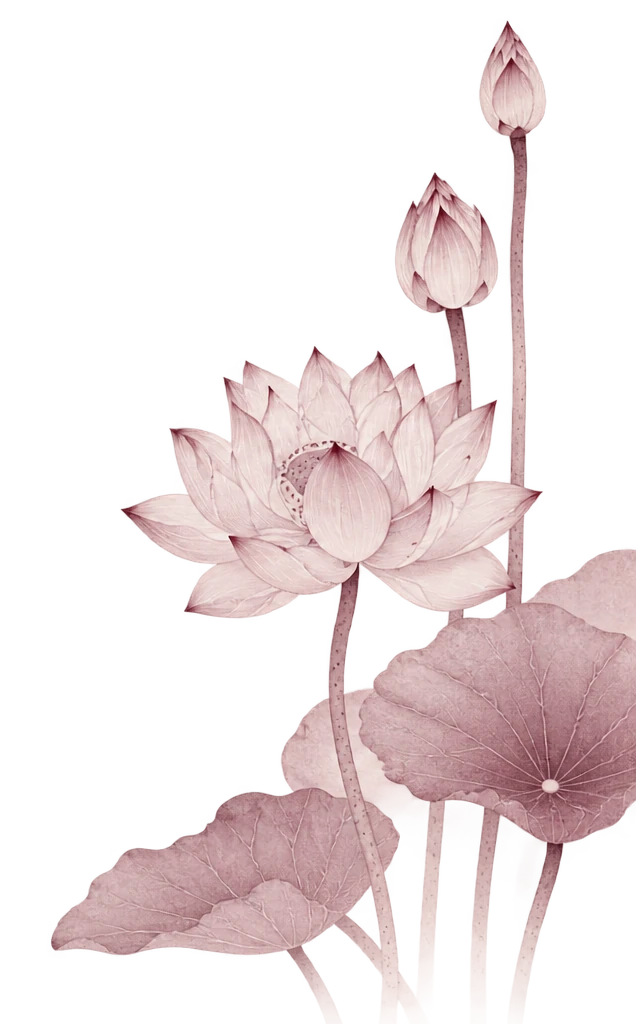
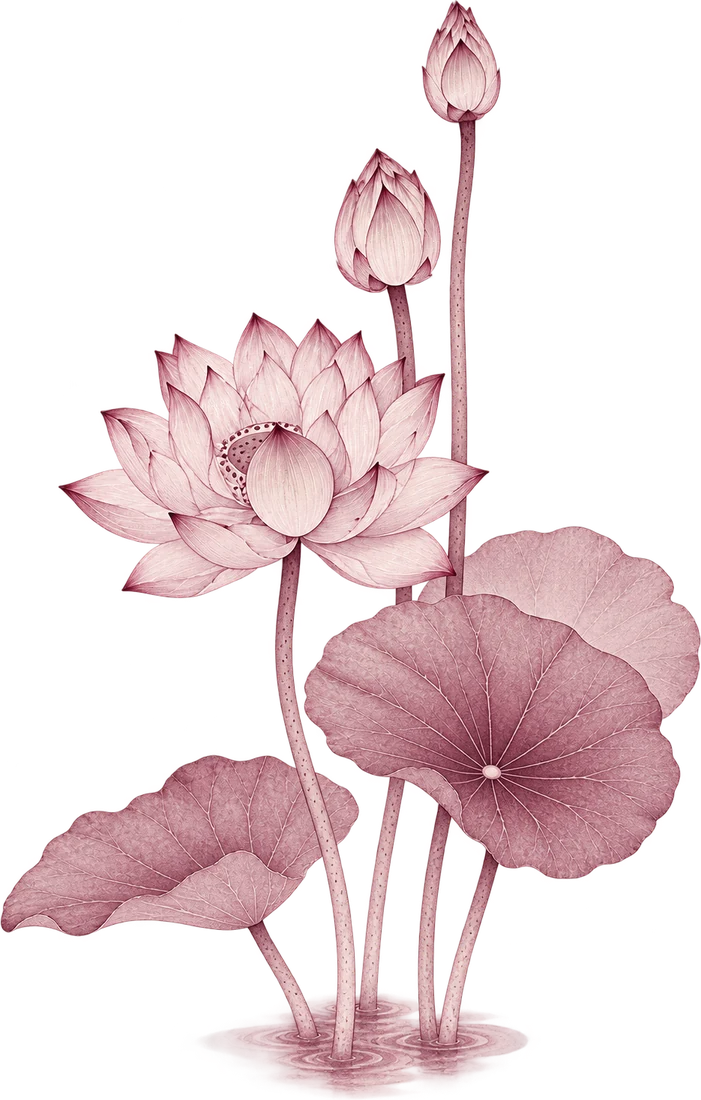
Bring in the client's shortlisted photography and the new brand assets
- Gallery: Weddings, Receptions, Haldi, Mehendi and Brunches rebuilt from
  the client's shortlist (assets/gallery), near-duplicate brunch frames
  dropped, earlier haldi frames kept after the two new ones
- Hero: new uncropped lotus, flush right, bottom fade, sits lower;
  powder-blue wash from the logo in the bottom-right corner
- Nav: new logo mark, text cropped off, set slightly larger
- About: new copy and a mandap photograph
- Process: updated ballroom floor plan in colour, shown whole in a
  two-row cell; the final stage closes the ledger full width

diff --git a/index.html b/index.html
@@ -26,7 +26,7 @@
 <link rel="preconnect" href="https://fonts.googleapis.com">
 <link rel="preconnect" href="https://fonts.gstatic.com" crossorigin>
 <link href="https://fonts.googleapis.com/css2?family=Playfair+Display:wght@500;600;700&amp;family=Instrument+Serif:ital@1&amp;family=Marcellus&amp;family=Space+Grotesk:wght@300;400;500;600&amp;family=Space+Mono:ital,wght@0,400;0,700;1,400&amp;display=swap" rel="stylesheet">
-<link rel="icon" href="assets/brand/soul-mark.png">
+<link rel="icon" href="assets/brand/soul-mark.png?v=2">
 
 <style>
 /* ============================================================
@@ -74,7 +74,7 @@
   --wordmark:"Playfair Display", "Bodoni 72", Didot, Georgia, serif;   /* the logo lockup only */
 
   --gutter:clamp(20px, 5.4vw, 92px);
-  --lotus-lift:clamp(74px, 11vh, 116px);   /* clears the hero's scroll cue */
+  --lotus-lift:clamp(20px, 4vh, 48px);    /* sits low; the faded foot runs behind the scroll cue */
   --gap:clamp(14px, 2.1vw, 30px);
   --sect:clamp(52px, 7.4vw, 100px);
   --measure:60ch;          /* one reading measure for every body paragraph */
@@ -270,7 +270,7 @@ p,li,q,blockquote,figcaption,address{text-wrap:pretty}
   border-bottom-color:var(--hair);
 }
 .brand{display:flex; align-items:center; gap:11px; text-decoration:none; line-height:1; min-height:44px}
-.brand .mark-brand{font-size:34px}
+.brand .mark-brand{font-size:40px}
 .brand-word{display:flex; align-items:baseline; gap:8px}
 .brand-word b{padding-right:.02em}
 /* the wordmark is set to match the logo's own Didone, and nowhere else */
@@ -399,6 +399,7 @@ p,li,q,blockquote,figcaption,address{text-wrap:pretty}
   background:
     radial-gradient(66% 52% at 16% 12%, rgba(var(--blush),.86) 0%, rgba(var(--blush),0) 64%),
     radial-gradient(58% 46% at 78% 20%, rgba(123,59,84,.13) 0%, transparent 64%),
+    radial-gradient(60% 52% at 100% 100%, rgba(197,214,233,.85) 0%, rgba(197,214,233,0) 72%),
     radial-gradient(56% 46% at 94% 74%, rgba(var(--rose),.70) 0%, rgba(var(--rose),0) 66%),
     radial-gradient(64% 44% at 44% 100%, rgba(var(--lilac),.56) 0%, rgba(var(--lilac),0) 66%),
     radial-gradient(70% 50% at 46% 96%, rgba(105,189,69,.06) 0%, transparent 62%);
@@ -411,13 +412,14 @@ p,li,q,blockquote,figcaption,address{text-wrap:pretty}
 .hero-lotus{
   position:absolute; right:0;
   /* it rests on the scroll cue rather than the hero's bottom edge */
-  bottom:var(--lotus-lift); height:clamp(360px,70vh,672px);
+  bottom:var(--lotus-lift); height:clamp(400px,78vh,760px);
   width:auto; max-width:none;
   z-index:2; pointer-events:none; user-select:none; will-change:transform;
   object-fit:contain; object-position:right bottom;
   opacity:.5; filter:saturate(.85);
-  -webkit-mask-image:linear-gradient(transparent 0%, #000 26%);
-  mask-image:linear-gradient(transparent 0%, #000 26%);
+  /* the stems dissolve into the page instead of stopping on a line */
+  -webkit-mask-image:linear-gradient(#000 68%, transparent 100%);
+  mask-image:linear-gradient(#000 68%, transparent 100%);
 }
 .hero-wash::after{
   content:""; position:absolute; inset:0;
@@ -668,9 +670,13 @@ p,li,q,blockquote,figcaption,address{text-wrap:pretty}
 .p-cell--shot{padding:0; overflow:hidden; min-height:210px}
 .p-cell--shot:hover{background:var(--ground)}
 .p-cell--shot .plate{position:absolute; inset:0; border:0}
-/* the floor plan is a drawing, not a photograph: shown whole on white, no grain */
+/* the floor plan is near-square, so its cell runs two rows tall and the
+   last stage closes the ledger as a full-width band */
+.p-cell--shot{grid-row:span 2}
+.p-ledger > .p-cell:last-child{grid-column:1 / -1}
 .plate--plan{background:#fff}
-.plate--plan .shot{object-fit:contain; padding:clamp(6px,.8vw,12px); filter:grayscale(1) contrast(1.05)}
+.plate--plan a{position:absolute; inset:0; display:block}
+.plate--plan .shot{object-fit:contain; object-position:center}
 
 /* ============================================================
    SERVICES (05)
@@ -1204,7 +1210,7 @@ p,li,q,blockquote,figcaption,address{text-wrap:pretty}
      between the headline and the CTAs. */
   .hero{min-height:100svh; padding-top:clamp(92px,15vh,140px); padding-bottom:clamp(26px,4vh,40px)}
   .hero-inner{flex:1; justify-content:center}
-  .hero-lotus{opacity:.34; height:clamp(252px,41vh,384px)}
+  .hero-lotus{opacity:.34; height:clamp(280px,46vh,430px)}
   .hero h1{margin-top:0; margin-bottom:clamp(26px,5vh,44px)}
   .hero-foot{margin-top:clamp(26px,5vh,44px)}
   .nav-links,.nav > .nav-cta{display:none}
@@ -1228,7 +1234,7 @@ p,li,q,blockquote,figcaption,address{text-wrap:pretty}
   /* the ledger stacks into a single ruled column; the photograph keeps
      its own ratio instead of borrowing a row's height */
   .p-ledger{grid-template-columns:minmax(0,1fr)}
-  .p-cell--shot{aspect-ratio:16 / 10; min-height:0}
+  .p-cell--shot{aspect-ratio:1174 / 1064; min-height:0; grid-row:auto}
   .c-roster ol{columns:1}
   .k-line .who{min-width:0; width:100%}
   .nav-sheet a{padding-block:12px}
@@ -1435,7 +1441,7 @@ p,li,q,blockquote,figcaption,address{text-wrap:pretty}
 <!-- ============ NAV ============ -->
 <header class="nav" id="nav">
   <a class="brand" href="#top" aria-label="Soul Events, home">
-    <img class="mark-brand" src="assets/brand/soul-mark.png" alt="" width="520" height="493" decoding="async">
+    <img class="mark-brand" src="assets/brand/soul-mark.png?v=2" alt="" width="520" height="520" decoding="async">
     <span class="brand-word"><b>Soul</b><span>events</span></span>
   </a>
   <nav class="nav-links" aria-label="Primary">
@@ -1480,7 +1486,7 @@ p,li,q,blockquote,figcaption,address{text-wrap:pretty}
   <picture>
     <source srcset="assets/brand/hero-lotus.webp" type="image/webp">
     <img class="hero-lotus" src="assets/brand/hero-lotus.png" alt="" aria-hidden="true"
-         width="636" height="1024" decoding="async" fetchpriority="low">
+         width="701" height="1100" decoding="async" fetchpriority="low">
   </picture>
   <div class="hero-inner">
 
@@ -1525,7 +1531,7 @@ p,li,q,blockquote,figcaption,address{text-wrap:pretty}
   <div class="grid">
     <div class="about-body">
       <p class="lede rev-l">
-        From the first site visit to the last guest leaving, we plan, design and run every detail, so each occasion feels personal. <em class="soul-em">Every event, made with soul.</em>
+        Every occasion starts with a story: yours. We take the time to understand it, then build the decor, the mood and the moments around it, whether it is an intimate family get-together, a wedding or a corporate evening. Twenty years and hundreds of celebrations on, we still treat each one as the only one.
       </p>
       <p class="signoff rev-l" style="--d:180ms">
         <svg class="lotus" aria-hidden="true" style="font-size:15px"><use href="#lotus"></use></svg>
@@ -1535,10 +1541,10 @@ p,li,q,blockquote,figcaption,address{text-wrap:pretty}
 
     <figure class="plate about-plate wipe">
       <span class="plate-ratio"></span>
-      <img class="shot" src="assets/samples/wed-05.jpg" width="900" height="585" decoding="async"
-           alt="a decorated wedding arch above a floral aisle and rows of seating">
+      <img class="shot" src="assets/gallery/wed-03.jpg" width="1720" height="1147" decoding="async"
+           alt="An ornate gold pavilion mandap with lotus lamps and white flower strands in a coconut garden">
       <span class="plate-grain" aria-hidden="true"></span>
-      <figcaption class="plate-cap"><span class="dot" aria-hidden="true"></span>Sparklers · Soul Events</figcaption>
+      <figcaption class="plate-cap"><span class="dot" aria-hidden="true"></span>Wedding · Soul Events</figcaption>
     </figure>
   </div>
 </section>
@@ -1659,8 +1665,8 @@ p,li,q,blockquote,figcaption,address{text-wrap:pretty}
 
       <div class="p-cell p-cell--shot rev-l" style="--d:180ms">
         <figure class="plate plate--plan wipe">
-          <a href="assets/samples/process-layout.jpg" target="_blank" rel="noopener" aria-label="Open the full ballroom floor plan">
-            <img class="shot" src="assets/samples/process-layout.jpg" width="1447" height="1087" loading="lazy" decoding="async"
+          <a href="assets/samples/process-layout.jpg?v=3" target="_blank" rel="noopener" aria-label="Open the full ballroom floor plan">
+            <img class="shot" src="assets/samples/process-layout.jpg?v=3" width="1174" height="1064" loading="lazy" decoding="async"
                  alt="A technical floor plan for a grand ballroom: main stage and runway, four team seating blocks, green rooms, band and control platforms, and guest entrances">
           </a>
           <figcaption class="plate-cap"><span class="dot" aria-hidden="true"></span>Layout &middot; Soul Events</figcaption>
@@ -1778,8 +1784,8 @@ p,li,q,blockquote,figcaption,address{text-wrap:pretty}
       <div class="g-tile rev-l" data-cat="wed" data-name="Weddings">
         <figure class="plate wipe">
           <span class="plate-ratio"></span>
-          <img class="shot" src="assets/samples/wed-01.jpg" width="860" height="573" decoding="async"
-               alt="A red and gold wedding mandap lit under a timber pavilion">
+          <img class="shot" src="assets/gallery/wed-01.jpg" width="1720" height="1147" decoding="async"
+               alt="Outdoor haldi mandap with yellow flower aisle, carved gold frame and lawn seating">
           <span class="plate-grain" aria-hidden="true"></span>
           <figcaption class="plate-cap"><span class="dot" aria-hidden="true"></span>Wedding · Soul Events</figcaption>
         </figure>
@@ -1792,8 +1798,8 @@ p,li,q,blockquote,figcaption,address{text-wrap:pretty}
       <div class="g-tile rev-l" style="--d:60ms" data-cat="recep" data-name="Receptions">
         <figure class="plate wipe">
           <span class="plate-ratio"></span>
-          <img class="shot" src="assets/samples/recep-01.jpg" width="860" height="573" loading="lazy" decoding="async"
-               alt="A mirrored staircase entrance dressed for the reception">
+          <img class="shot" src="assets/gallery/recep-01.jpg" width="1720" height="1147" loading="lazy" decoding="async"
+               alt="Reception ballroom with a lit geometric dance floor, truss lighting and drifting fog">
           <span class="plate-grain" aria-hidden="true"></span>
           <figcaption class="plate-cap"><span class="dot" aria-hidden="true"></span>Reception · Soul Events</figcaption>
         </figure>
@@ -1806,8 +1812,8 @@ p,li,q,blockquote,figcaption,address{text-wrap:pretty}
       <div class="g-tile rev-l" style="--d:120ms" data-cat="haldi" data-name="Haldi">
         <figure class="plate wipe">
           <span class="plate-ratio"></span>
-          <img class="shot" src="assets/samples/haldi-01.jpg" width="860" height="573" loading="lazy" decoding="async"
-               alt="A hand-painted haldi ceremony sign banked with marigolds">
+          <img class="shot" src="assets/gallery/haldi-01.jpg" width="1720" height="1147" loading="lazy" decoding="async"
+               alt="Haldi stage with chevron platform, painted backdrop, ivy ceiling and floral welcome sign">
           <span class="plate-grain" aria-hidden="true"></span>
           <figcaption class="plate-cap"><span class="dot" aria-hidden="true"></span>Haldi · Soul Events</figcaption>
         </figure>
@@ -1820,8 +1826,8 @@ p,li,q,blockquote,figcaption,address{text-wrap:pretty}
       <div class="g-tile rev-l" style="--d:180ms" data-cat="mehendi" data-name="Mehendi">
         <figure class="plate wipe">
           <span class="plate-ratio"></span>
-          <img class="shot" src="assets/samples/mehendi-01.jpg" width="860" height="573" loading="lazy" decoding="async"
-               alt="The mehendi hall in warm red drapery and lanterns">
+          <img class="shot" src="assets/gallery/mehendi-01.jpg" width="1720" height="1147" loading="lazy" decoding="async"
+               alt="Mehendi hall with a sunburst fabric backdrop, white seating and marigold bowls">
           <span class="plate-grain" aria-hidden="true"></span>
           <figcaption class="plate-cap"><span class="dot" aria-hidden="true"></span>Mehendi · Soul Events</figcaption>
         </figure>
@@ -1834,8 +1840,8 @@ p,li,q,blockquote,figcaption,address{text-wrap:pretty}
       <div class="g-tile rev-l" style="--d:240ms" data-cat="brunch" data-name="Brunches">
         <figure class="plate wipe">
           <span class="plate-ratio"></span>
-          <img class="shot" src="assets/samples/brunch-01.jpg" width="860" height="573" loading="lazy" decoding="async"
-               alt="The poolside brunch set with round tables and white chairs">
+          <img class="shot" src="assets/gallery/brunch-01.jpg" width="1720" height="1147" loading="lazy" decoding="async"
+               alt="Poolside brunch tables with white drapes, clear chairs and a bouquet centrepiece">
           <span class="plate-grain" aria-hidden="true"></span>
           <figcaption class="plate-cap"><span class="dot" aria-hidden="true"></span>Brunch · Soul Events</figcaption>
         </figure>
@@ -2425,7 +2431,7 @@ p,li,q,blockquote,figcaption,address{text-wrap:pretty}
 
   /* ---------- hero: a subtle camera that leans with the pointer ---------- */
   if (lotus && !reduce && window.matchMedia("(hover:hover) and (pointer:fine)").matches) {
-    var AMP_X = 16, AMP_Y = 10;            // the whole move is well under a centimetre
+    var AMP_X = 0, AMP_Y = 10;             // vertical only, so the lotus stays flush to the right edge
     function ease(){
       camX += (aimX - camX) * 0.06;
       camY += (aimY - camY) * 0.06;
@@ -2639,12 +2645,11 @@ p,li,q,blockquote,figcaption,address{text-wrap:pretty}
 
   var GALLERY = {
     wed: [
-      {f:"wed-01.jpg", w:860, h:573, a:"A red and gold wedding mandap lit under a timber pavilion", c:"Soul Events"},
-      {f:"wed-02.jpg", w:860, h:573, a:"A carved wedding backdrop framed in red drapery and fairy lights", c:"Soul Events"},
-      {f:"wed-03.jpg", w:860, h:573, a:"A lantern-lit garden walkway leading to the ceremony", c:"Soul Events"},
-      {f:"wed-04.jpg", w:860, h:573, a:"A gold-draped stage set for the couple and their families", c:"Soul Events"},
-      {f:"wed-05.jpg", w:860, h:573, a:"The couple on stage as sparklers light the aisle", c:"Soul Events"},
-      {f:"wed-06.jpg", w:860, h:573, a:"The couple at the ceremony in traditional dress", c:"Soul Events"}
+      {d:"assets/gallery/", f:"wed-01.jpg", w:1720, h:1147, a:"Outdoor haldi mandap with yellow flower aisle, carved gold frame and lawn seating", c:"Soul Events"},
+      {d:"assets/gallery/", f:"wed-02.jpg", w:1720, h:1147, a:"Gold jaali mandap with jasmine garlands and floral crown set in a garden", c:"Soul Events"},
+      {d:"assets/gallery/", f:"wed-03.jpg", w:1720, h:1147, a:"Ornate gold pavilion mandap with lotus lamps and white flower strands in a coconut garden", c:"Soul Events"},
+      {d:"assets/gallery/", f:"wed-04.jpg", w:1720, h:1145, a:"Marigold-canopied indoor mandap with green panels and white chair covers", c:"Soul Events"},
+      {d:"assets/gallery/", f:"wed-05.jpg", w:1720, h:1147, a:"Wedding ritual under a leafy pergola with a carved gold backdrop and hanging planters", c:"Soul Events"}
     ],
     anniv: [
       {f:"anniv-01.jpg", w:573, h:860, a:"A chandelier hung over a candlelit garden setting", c:"Soul Events"},
@@ -2663,22 +2668,25 @@ p,li,q,blockquote,figcaption,address{text-wrap:pretty}
       {f:"bday-06.jpg", w:860, h:573, a:"The full birthday stage in sunflower and paper florals", c:"Soul Events"}
     ],
     brunch: [
-      {f:"brunch-01.jpg", w:860, h:573, a:"The poolside brunch set with round tables and white chairs", c:"Soul Events"},
-      {f:"brunch-02.jpg", w:860, h:573, a:"A basket of blooms beside a hand-painted place card", c:"Soul Events"},
-      {f:"brunch-03.jpg", w:860, h:573, a:"A floral pallet wall styled with hats and props", c:"Soul Events"},
-      {f:"brunch-04.jpg", w:860, h:573, a:"A cabana table set beside the pool", c:"Soul Events"},
-      {f:"brunch-05.jpg", w:860, h:573, a:"The couple's signage set into a garden of flowers", c:"Soul Events"},
-      {f:"brunch-06.jpg", w:860, h:573, a:"A garland-hung arbour on the lawn", c:"Soul Events"}
+      {d:"assets/gallery/", f:"brunch-01.jpg", w:1720, h:1147, a:"Poolside brunch tables with white drapes, clear chairs and a bouquet centrepiece", c:"Soul Events"},
+      {d:"assets/gallery/", f:"brunch-04.jpg", w:1720, h:1147, a:"Courtyard brunch setting with palms, pink canopy and round tables under city towers", c:"Soul Events"},
+      {d:"assets/gallery/", f:"brunch-05.jpg", w:1720, h:1147, a:"Floral and foliage arch at a lift lobby entrance with planters and hanging baskets", c:"Soul Events"},
+      {d:"assets/gallery/", f:"brunch-06.jpg", w:1720, h:1147, a:"Rustic wooden name board on a log, framed by tasselled umbrellas and flower baskets", c:"Soul Events"},
+      {d:"assets/gallery/", f:"brunch-07.jpg", w:1182, h:1720, a:"Oversized pastel paper flowers and bouquets beside the pool under a spreading tree", c:"Soul Events"}
     ],
     recep: [
-      {f:"recep-01.jpg", w:860, h:573, a:"A mirrored staircase entrance dressed for the reception", c:"Soul Events"},
-      {f:"recep-02.jpg", w:860, h:573, a:"A blush drapery backdrop hung with floral baubles", c:"Soul Events"},
-      {f:"recep-03.jpg", w:860, h:573, a:"A floral archway framing the ballroom doors", c:"Soul Events"},
-      {f:"recep-04.jpg", w:860, h:573, a:"The reception stage in blush and lilac uplighting", c:"Soul Events"},
-      {f:"recep-05.jpg", w:860, h:573, a:"The full ballroom stage seen from the floor", c:"Soul Events"},
-      {f:"recep-06.jpg", w:860, h:573, a:"A red canopy reception set in a lit garden", c:"Soul Events"}
+      {d:"assets/gallery/", f:"recep-01.jpg", w:1720, h:1147, a:"Reception ballroom with a lit geometric dance floor, truss lighting and drifting fog", c:"Soul Events"},
+      {d:"assets/gallery/", f:"recep-02.jpg", w:1720, h:1147, a:"Reception stage under gold cage lanterns and greenery with a floral moon-gate seat", c:"Soul Events"},
+      {d:"assets/gallery/", f:"recep-03.jpg", w:1720, h:1229, a:"Pastel-green reception stage with crystal globes, foliage and a carved settee in a marble hall", c:"Soul Events"},
+      {d:"assets/gallery/", f:"recep-04.jpg", w:1720, h:1147, a:"Reception stage with a gold ring seat, floral arches, candles and brass lanterns", c:"Soul Events"},
+      {d:"assets/gallery/", f:"recep-05.jpg", w:1720, h:1147, a:"Outdoor reception bar under hanging crystal chandeliers and mirrored pillars", c:"Soul Events"},
+      {d:"assets/gallery/", f:"recep-06.jpg", w:1720, h:1147, a:"Pastel draped reception stage with a red settee, floral frames and lanterns", c:"Soul Events"},
+      {d:"assets/gallery/", f:"recep-07.jpg", w:1720, h:1147, a:"Mirrored truss reception bar canopy with crystal drops beside palms at night", c:"Soul Events"},
+      {d:"assets/gallery/", f:"recep-08.jpg", w:1720, h:1145, a:"Garden reception stage with pastel drapes, gold lattice screens and purple blooms", c:"Soul Events"}
     ],
     haldi: [
+      {d:"assets/gallery/", f:"haldi-01.jpg", w:1720, h:1147, a:"Haldi stage with chevron platform, painted backdrop, ivy ceiling and floral welcome sign", c:"Soul Events"},
+      {d:"assets/gallery/", f:"haldi-02.jpg", w:1720, h:1431, a:"Betel leaf backdrop with hanging jasmine strings and a carved haldi seat on blue stage", c:"Soul Events"},
       {f:"haldi-01.jpg", w:860, h:573, a:"A hand-painted haldi ceremony sign banked with marigolds", c:"Soul Events"},
       {f:"haldi-02.jpg", w:860, h:483, a:"The haldi pavilion dressed in colour under the trees", c:"Soul Events"},
       {f:"haldi-03.jpg", w:860, h:573, a:"The ceremony backdrop in red and gold beneath a tiled roof", c:"Soul Events"},
@@ -2686,12 +2694,11 @@ p,li,q,blockquote,figcaption,address{text-wrap:pretty}
       {f:"haldi-05.jpg", w:573, h:860, a:"A brass lamp garlanded for the haldi", c:"Soul Events"}
     ],
     mehendi: [
-      {f:"mehendi-01.jpg", w:860, h:573, a:"The mehendi hall in warm red drapery and lanterns", c:"Soul Events"},
-      {f:"mehendi-02.jpg", w:860, h:573, a:"The mehendi stage backdrop with a fan of colour", c:"Soul Events"},
-      {f:"mehendi-03.jpg", w:860, h:573, a:"A carved jhoola swing dressed for the bride", c:"Soul Events"},
-      {f:"mehendi-04.jpg", w:860, h:573, a:"Hanging mehendi mobiles in pom-poms and mirrors", c:"Soul Events"},
-      {f:"mehendi-05.jpg", w:860, h:573, a:"The mehendi hall from the aisle, seating set in colour", c:"Soul Events"},
-      {f:"mehendi-06.jpg", w:860, h:573, a:"A dressed swing beneath strings of fairy lights", c:"Soul Events"}
+      {d:"assets/gallery/", f:"mehendi-01.jpg", w:1720, h:1147, a:"Mehendi hall with a sunburst fabric backdrop, white seating and marigold bowls", c:"Soul Events"},
+      {d:"assets/gallery/", f:"mehendi-02.jpg", w:1720, h:1145, a:"Colourful mehendi stage with turquoise settee, marigold garlands and mirror-work umbrellas", c:"Soul Events"},
+      {d:"assets/gallery/", f:"mehendi-03.jpg", w:1720, h:1145, a:"Mehendi tent along the pool with hanging charms, umbrellas and pink seating", c:"Soul Events"},
+      {d:"assets/gallery/", f:"mehendi-04.jpg", w:1720, h:1147, a:"Pastel fabric backdrop with flamingos, paper flowers and a personalised wedding sign", c:"Soul Events"},
+      {d:"assets/gallery/", f:"mehendi-05.jpg", w:1720, h:1099, a:"Rajasthani puppet couple in a marigold basket on a mandala print floor", c:"Soul Events"}
     ],
     kids: [
       {f:"kids-01.jpg", w:860, h:573, a:"The entrance walk dressed in pastel drapes and lanterns", c:"Soul Events"},
@@ -2718,7 +2725,7 @@ p,li,q,blockquote,figcaption,address{text-wrap:pretty}
       {f:"table-06.jpg", w:860, h:645, a:"A cake table set under sheer drapery", c:"Soul Events"}
     ]
   };
-  var COUNT_WORD = ["Zero","One","Two","Three","Four","Five","Six"];
+  var COUNT_WORD = ["Zero","One","Two","Three","Four","Five","Six","Seven","Eight","Nine","Ten"];
 
   if (lb && tiles.length) {
     var lbName   = document.getElementById("lbName");
@@ -2749,7 +2756,7 @@ p,li,q,blockquote,figcaption,address{text-wrap:pretty}
           cell.className = "lb-cell";
           cell.setAttribute("aria-label", "Expand frame " + (i + 1) + " of " + shots.length + ": " + s.a);
           var img = document.createElement("img");
-          img.src = "assets/samples/" + s.f;
+          img.src = (s.d || "assets/samples/") + s.f;
           img.width = s.w; img.height = s.h;
           img.alt = s.a;
           img.loading = "lazy";
@@ -2765,7 +2772,7 @@ p,li,q,blockquote,figcaption,address{text-wrap:pretty}
     function showSolo(i){
       solo = (i + shots.length) % shots.length;
       var s = shots[solo];
-      lbImg.src = "assets/samples/" + s.f;
+      lbImg.src = (s.d || "assets/samples/") + s.f;
       lbImg.width = s.w; lbImg.height = s.h;
       lbImg.alt = s.a;
       lbIdx.textContent = pad(solo + 1) + " / " + pad(shots.length);
